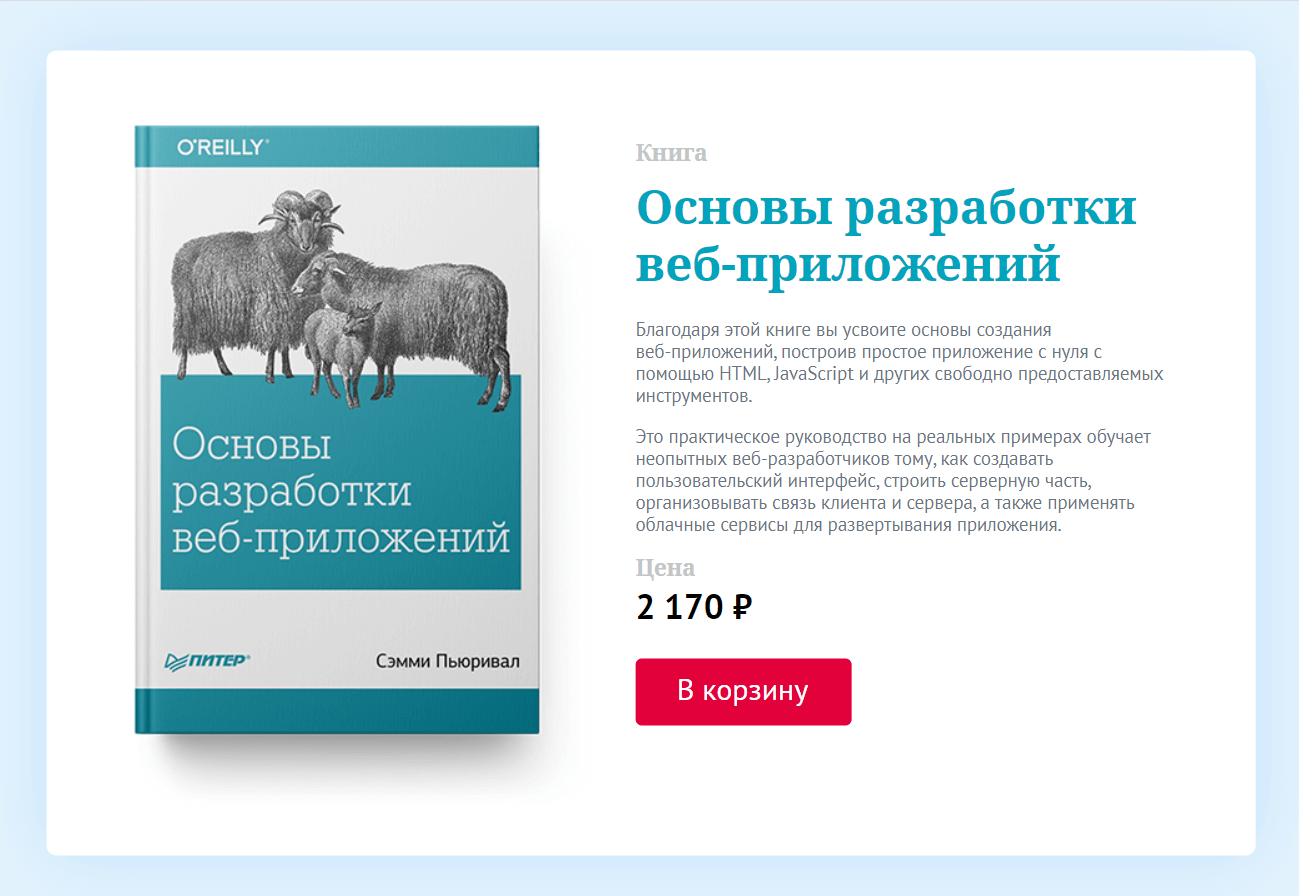
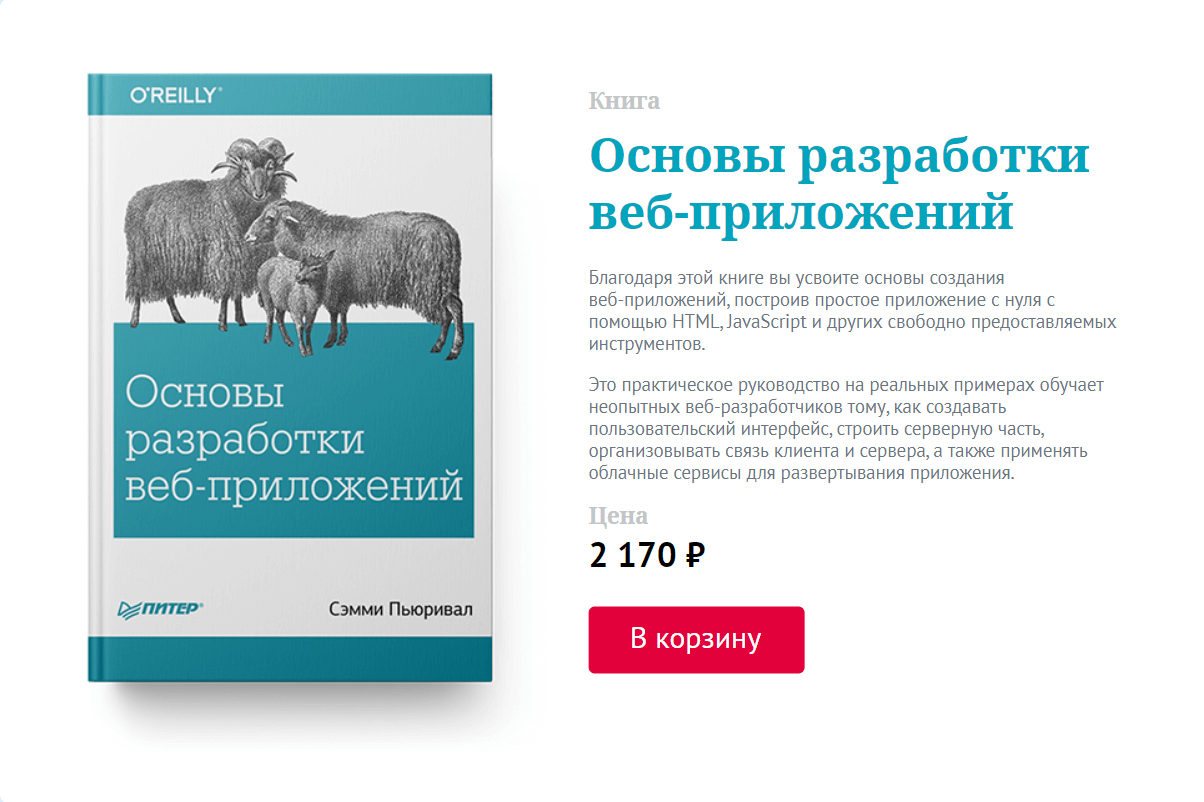
change size portfolio card

diff --git a/docs/css/main.css b/docs/css/main.css
@@ -813,6 +813,7 @@ textarea {
 }
 .portfolio-card_poster img {
   display: block;
+  min-width: 555px;
   height: 360px;
   -o-object-position: center;
      object-position: center;
@@ -824,7 +825,7 @@ textarea {
   background-color: var(--btnbg);
 }
 .portfolio-card--big {
-  max-width: 555px;
+  max-width: 530px;
   margin-bottom: 50px;
   height: 480px;
 }

diff --git a/docs/less/blocks/_portfolio-card.less b/docs/less/blocks/_portfolio-card.less
@@ -79,6 +79,7 @@
 
 .portfolio-card_poster img {
   display: block;
+  min-width: 555px;
   height: 360px;
   object-position: center;
   object-fit: cover;
@@ -88,7 +89,7 @@
 }
 
 .portfolio-card--big {
-  max-width: 555px;
+  max-width: 530px;
   margin-bottom: 50px;
   height: 480px;
 
